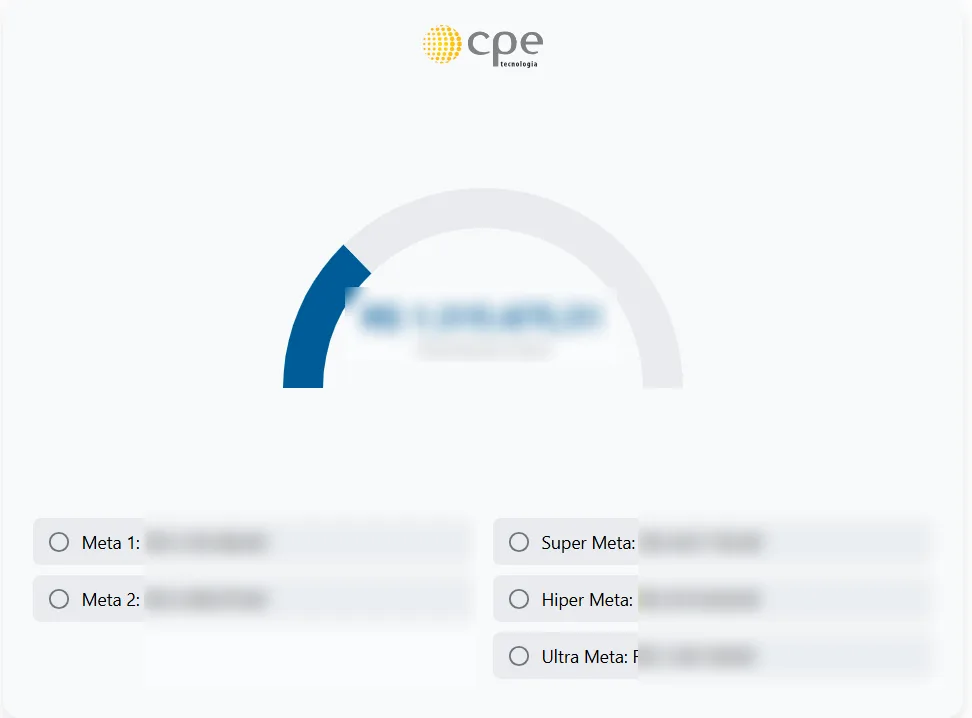
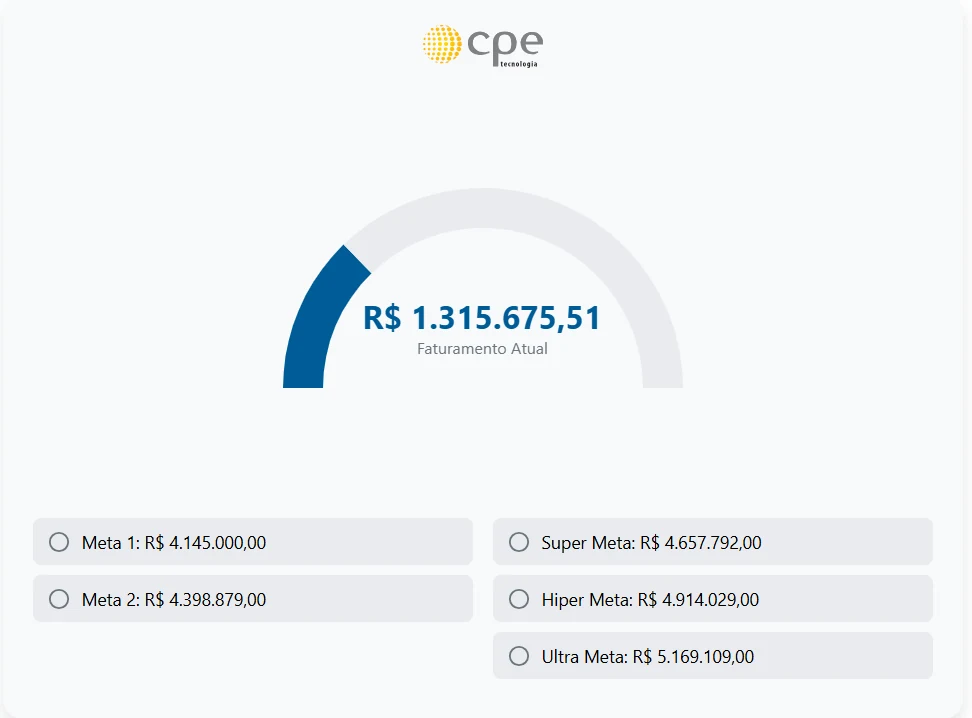
feat: perfis Gestor/HIC ocultam seções do perfil oposto; usa capturas originais dos painéis
Claude-Session: https://claude.ai/code/session_01Q2Qwb89WkuqzAVofM6wjbc

diff --git a/components/Portfolio.tsx b/components/Portfolio.tsx
@@ -1,10 +1,12 @@
 'use client';
 
-import { MotionConfig, motion } from 'framer-motion';
+import { AnimatePresence, MotionConfig, motion } from 'framer-motion';
 import { useEffect } from 'react';
 import type { Content, Locale, SuggestStrings } from '@/content/types';
 import { LocaleSuggest } from './LocaleSuggest';
-import { Nav } from './Nav';
+import { Nav, isSectionVisible } from './Nav';
+import { useSite } from './providers';
+import type { SectionId } from '@/content/types';
 import { SiteProvider } from './providers';
 import { Hero } from './sections/Hero';
 import { About } from './sections/About';
@@ -47,23 +49,48 @@ export function Portfolio({ locale, content, suggestions }: Props) {
         animate={{ opacity: 1, filter: 'blur(0px)' }}
         transition={{ duration: 0.45, ease: 'easeOut' }}
       >
-        <Hero />
-        <About />
-        <Timeline />
-        <Management />
-        <Sankhya />
-        <Salesforce />
-        <AI />
-        <Dashboards />
-        <Thesis />
-        <Infra />
-        <Stack />
-        <GitHub />
-        <Contact />
+        <Sections />
       </motion.main>
       <Footer />
       <LocaleSuggest suggestions={suggestions} />
     </SiteProvider>
     </MotionConfig>
+  );
+}
+
+const SECTIONS: { id: SectionId; Cmp: () => React.ReactElement }[] = [
+  { id: 'hero', Cmp: Hero },
+  { id: 'about', Cmp: About },
+  { id: 'timeline', Cmp: Timeline },
+  { id: 'management', Cmp: Management },
+  { id: 'sankhya', Cmp: Sankhya },
+  { id: 'salesforce', Cmp: Salesforce },
+  { id: 'ai', Cmp: AI },
+  { id: 'dashboards', Cmp: Dashboards },
+  { id: 'thesis', Cmp: Thesis },
+  { id: 'infra', Cmp: Infra },
+  { id: 'stack', Cmp: Stack },
+  { id: 'github', Cmp: GitHub },
+  { id: 'contact', Cmp: Contact },
+];
+
+/** Ao escolher Gestor ou HIC, as seções do perfil oposto saem da página (com animação). */
+function Sections() {
+  const { mode } = useSite();
+  return (
+    <AnimatePresence initial={false}>
+      {SECTIONS.filter(({ id }) => isSectionVisible(id, mode)).map(({ id, Cmp }) => (
+        <motion.div
+          key={id}
+          initial={{ opacity: 0, height: 0 }}
+          animate={{ opacity: 1, height: 'auto' }}
+          exit={{ opacity: 0, height: 0 }}
+          transition={{ duration: 0.4, ease: 'easeInOut' }}
+          style={{ overflow: 'hidden' }}
+        >
+          <Cmp />
+        </motion.div>
+      ))}
+    </AnimatePresence>
   );
 }

diff --git a/components/Nav.tsx b/components/Nav.tsx
@@ -24,7 +24,21 @@ export const SECTION_FOCUS: Partial<Record<SectionId, Mode>> = {
   stack: 'hic',
 };
 
-function useActiveSection(): SectionId {
+/** Seções ocultadas em cada modo (o modo oposto ao da seção). Seções ausentes aparecem sempre. */
+export const SECTION_HIDDEN_IN: Partial<Record<SectionId, Mode>> = {
+  management: 'hic',
+  sankhya: 'gestor',
+  salesforce: 'gestor',
+  thesis: 'gestor',
+  infra: 'gestor',
+  stack: 'gestor',
+};
+
+export function isSectionVisible(id: SectionId, mode: Mode): boolean {
+  return SECTION_HIDDEN_IN[id] !== mode;
+}
+
+function useActiveSection(mode: Mode): SectionId {
   const [active, setActive] = useState<SectionId>('hero');
   useEffect(() => {
     const observer = new IntersectionObserver(
@@ -39,7 +53,7 @@ function useActiveSection(): SectionId {
       if (el) observer.observe(el);
     });
     return () => observer.disconnect();
-  }, []);
+  }, [mode]);
   return active;
 }
 
@@ -124,11 +138,11 @@ function ThemeToggle() {
 
 export function Nav() {
   const { t, mode } = useSite();
-  const active = useActiveSection();
+  const active = useActiveSection(mode);
   const [open, setOpen] = useState(false);
   const { scrollYProgress } = useScroll();
   const progress = useSpring(scrollYProgress, { stiffness: 120, damping: 30, restDelta: 0.001 });
-  const links = SECTION_ORDER.filter((id) => id !== 'hero');
+  const links = SECTION_ORDER.filter((id) => id !== 'hero' && isSectionVisible(id, mode));
 
   useEffect(() => {
     if (!open) return;

diff --git a/components/sections/Dashboards.tsx b/components/sections/Dashboards.tsx
@@ -407,10 +407,10 @@ function GoalThermometer() {
   );
 }
 
-// ---------- Galeria de prints reais (desfocados) ----------
+// ---------- Galeria de prints reais ----------
 type ShotKey = 'sales' | 'stock' | 'tracking' | 'goal' | 'budget' | 'abc';
 
-// Imagens em public/dashboards/, geradas a partir de assets/raw/ com nomes e valores desfocados.
+// Imagens em public/dashboards/ (capturas originais dos painéis).
 const SHOTS: { key: ShotKey; file: string; width: number; height: number }[] = [
   { key: 'sales', file: 'vida-do-pedido.webp', width: 1609, height: 815 },
   { key: 'stock', file: 'pedidos-estoque.webp', width: 1619, height: 817 },

diff --git a/content/es.ts b/content/es.ts
@@ -457,7 +457,7 @@ export const es: Content = {
     goal: { title: 'Termómetro de metas de facturación', goal: 'Meta del mes', achieved: 'Realizado', remaining: 'Falta', daysLeft: 'días hábiles restantes', simulate: 'Simular avance del mes' },
     gallery: {
       title: 'Paneles en producción',
-      note: 'Capturas reales de los paneles que desarrollé. Nombres de clientes y valores fueron difuminados.',
+      note: 'Capturas reales de los paneles que desarrollé.',
       demoTitle: 'Versión interactiva (datos ficticios)',
       open: 'Abrir imagen en tamaño real',
       captions: {

diff --git a/content/pt.ts b/content/pt.ts
@@ -461,7 +461,7 @@ export const pt: Content = {
     goal: { title: 'Termômetro de metas de faturamento', goal: 'Meta do mês', achieved: 'Realizado', remaining: 'Falta', daysLeft: 'dias úteis restantes', simulate: 'Simular avanço do mês' },
     gallery: {
       title: 'Painéis em produção',
-      note: 'Capturas reais dos painéis que desenvolvi. Nomes de clientes e valores foram desfocados.',
+      note: 'Capturas reais dos painéis que desenvolvi.',
       demoTitle: 'Versão interativa (dados fictícios)',
       open: 'Abrir imagem em tamanho real',
       captions: {

diff --git a/content/en.ts b/content/en.ts
@@ -457,7 +457,7 @@ export const en: Content = {
     goal: { title: 'Revenue goal thermometer', goal: 'Monthly goal', achieved: 'Achieved', remaining: 'Remaining', daysLeft: 'business days left', simulate: 'Simulate month progress' },
     gallery: {
       title: 'Dashboards in production',
-      note: 'Real screenshots of dashboards I built. Customer names and amounts are blurred.',
+      note: 'Real screenshots of dashboards I built.',
       demoTitle: 'Interactive version (fictitious data)',
       open: 'Open full-size image',
       captions: {
